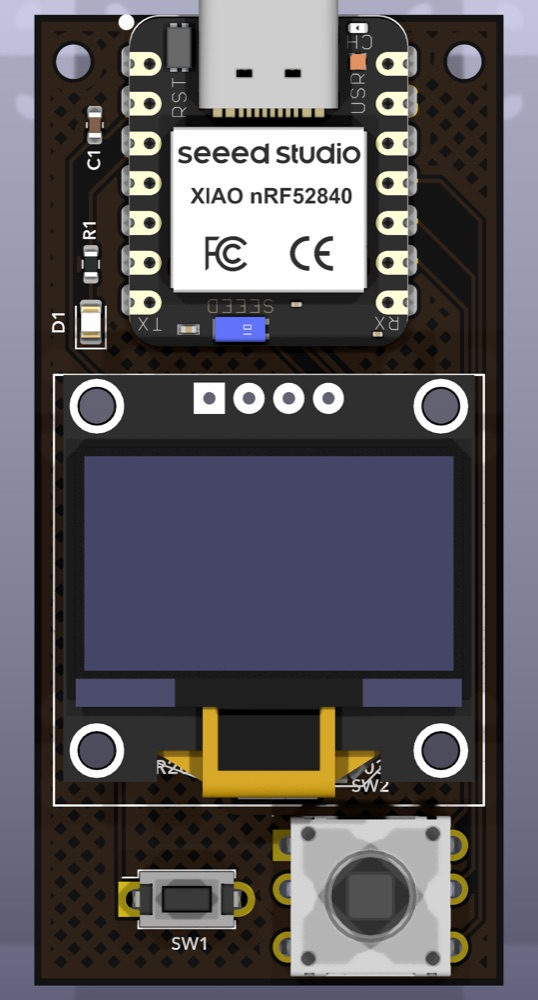
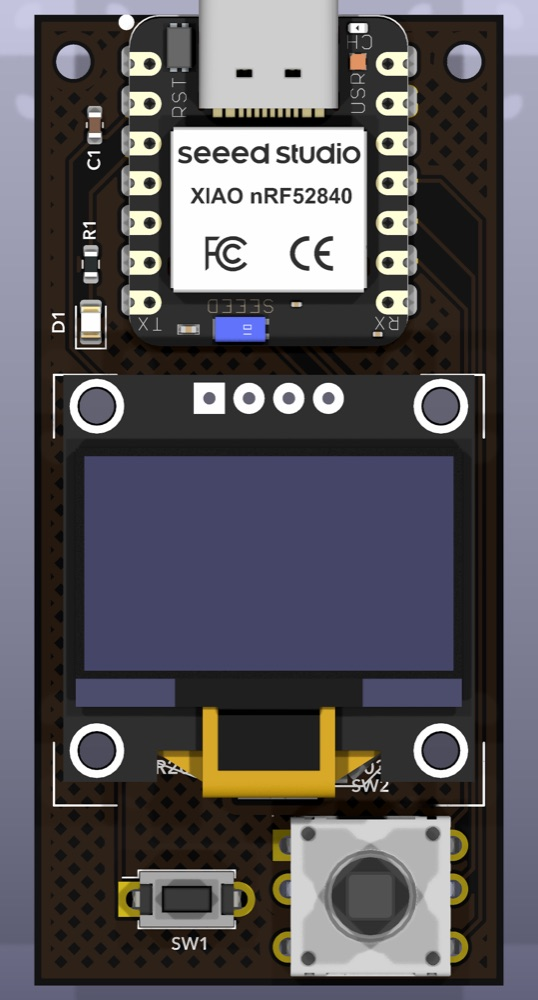
製品画像を追加、QR とレンダリングを更新
- 暫定の製品画像（有機ELに実際の描画出力を合成）を冒頭に追加
- OLED の位置決めシルクを枠線から角マークのみに変更
- QR を実機と同じライブラリ（ricmoo/QRCode）で生成し直した
  自前の Python 実装はデータが誤っていた（マスクを外して照合し 26〜44 マス相違）
- 電池の種別をシルクに明記（LIR2032 ONLY - NO CR2032）

Changed region(s): [[0.8922, 0.434, 0.9219, 0.744], [0.0892, 0.434, 0.119, 0.744]]

diff --git a/index.html b/index.html
@@ -250,6 +250,33 @@ footer{padding:70px 0 100px;border-top:1px solid var(--line)}
   </div>
 </div>
 
+<section style="padding-top:clamp(50px,7vh,80px)">
+  <div class="wrap">
+    <div class="label">PROVISIONAL</div>
+    <h2 style="max-width:24ch">画面には、これが出る。</h2>
+    <p class="say">設計データから起こした暫定の製品画像。<b>有機ELに映っているのは、
+      実際の描画コードが出力した実ピクセル</b>——絵ではない。</p>
+    <div class="row" style="grid-template-columns:minmax(280px,1fr) minmax(280px,1.15fr)">
+      <div><img class="fig" src="images/product.jpg" alt="Naked GoPro Remote 製品画像"></div>
+      <div>
+        <div class="oled">CAM1/3          REC 1:23
+────────────────────────
+GoPro 1234
+SD   28.4G
+LEFT 1:42:00
+MODE VIDEO      5.3K60
+REMOTE 92%</div>
+        <div class="caveat">3台つないで1台目を録画中。SD 残量 28.4GB、あと 1時間42分、5.3K60、リモコンの電池 92%</div>
+        <div class="branch" style="margin-top:22px">
+          <div class="br ok"><div class="k">30.1 × 62.1mm</div><div class="sub">2層 / 黒レジスト・白シルク・ENIG</div></div>
+        </div>
+      </div>
+    </div>
+  </div>
+</section>
+
+<div class="wrap"><div class="rule"></div></div>
+
 <section>
   <div class="wrap rev">
     <div class="label">THE PROBLEM</div>

diff --git a/README.md b/README.md
@@ -4,7 +4,9 @@
 
 **製品ページ → https://cinewhooptokyo.github.io/naked-gopro-remote/**
 
-![Naked GoPro Remote](images/iso.jpg)
+![Naked GoPro Remote](images/product.jpg)
+
+*暫定の製品画像。有機ELに映っているのは実際の描画コードが出力した実ピクセル。*
 
 ## これは何か
 
